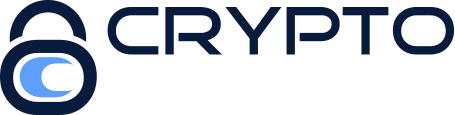
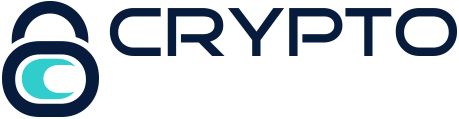
aqua on slider

diff --git a/css/style.css b/css/style.css
@@ -771,7 +771,7 @@ input[type='checkbox'] {
 	padding: 20px;
 	color: white;
 	font-size: 24px;
-	background-color: rgb(93, 159, 252);
+	background-color: rgb(50, 204, 204);
 	-webkit-user-select: none;
 	-moz-user-select: none;
 	-ms-user-select: none;

diff --git a/css/slick.css b/css/slick.css
@@ -311,5 +311,5 @@
 .slick-dots li.slick-active button:before
 {
     opacity: 1;
-    color: rgb(93, 159, 252);
+    color: rgb(50, 204, 204);
 }
